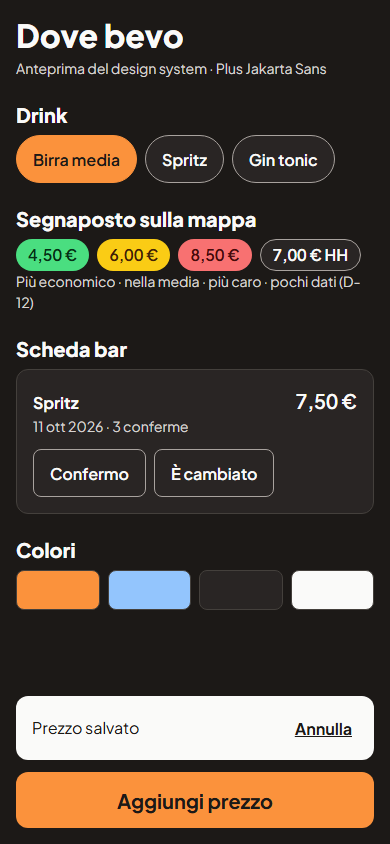
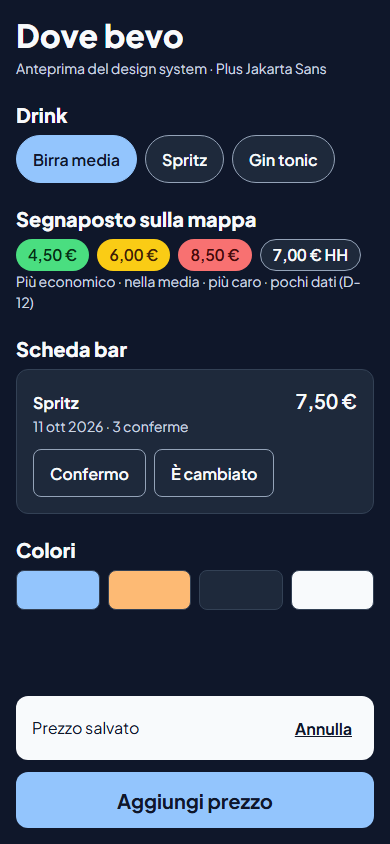
feat: M0-10 design system approved with palette C (blue and orange)

diff --git a/src/app/styles/tokens.css b/src/app/styles/tokens.css
@@ -10,15 +10,15 @@
 :root {
   color-scheme: light dark;
 
-  --color-bg: #fff7ed;
+  --color-bg: #f8fafc;
   --color-surface: #ffffff;
-  --color-text: #1c1917;
-  --color-text-muted: #57534e;
-  --color-primary: #c2410c;
+  --color-text: #0f172a;
+  --color-text-muted: #475569;
+  --color-primary: #1d4ed8;
   --color-on-primary: #ffffff;
-  --color-focus: #1d4ed8;
-  --color-border: #e7e5e4;
-  --color-border-strong: #78716c;
+  --color-focus: #c2410c;
+  --color-border: #e2e8f0;
+  --color-border-strong: #64748b;
   --color-error: #b91c1c;
 
   --price-cheap: #15803d;
@@ -28,7 +28,7 @@
   --price-high: #b91c1c;
   --on-price-high: #ffffff;
   --price-neutral: #ffffff;
-  --on-price-neutral: #1c1917;
+  --on-price-neutral: #0f172a;
 
   --font-sans: "Plus Jakarta Sans", system-ui, sans-serif;
   --text-sm: 0.875rem;
@@ -59,15 +59,15 @@
 
 @media (prefers-color-scheme: dark) {
   :root {
-    --color-bg: #1c1917;
-    --color-surface: #292524;
-    --color-text: #fafaf9;
-    --color-text-muted: #d6d3d1;
-    --color-primary: #fb923c;
-    --color-on-primary: #1c1917;
-    --color-focus: #93c5fd;
-    --color-border: #44403c;
-    --color-border-strong: #a8a29e;
+    --color-bg: #0f172a;
+    --color-surface: #1e293b;
+    --color-text: #f8fafc;
+    --color-text-muted: #cbd5e1;
+    --color-primary: #93c5fd;
+    --color-on-primary: #0f172a;
+    --color-focus: #fdba74;
+    --color-border: #334155;
+    --color-border-strong: #94a3b8;
     --color-error: #fca5a5;
 
     --price-cheap: #4ade80;
@@ -76,8 +76,8 @@
     --on-price-avg: #422006;
     --price-high: #f87171;
     --on-price-high: #450a0a;
-    --price-neutral: #292524;
-    --on-price-neutral: #fafaf9;
+    --price-neutral: #1e293b;
+    --on-price-neutral: #f8fafc;
     --shadow-sheet: 0 -2px 16px rgb(0 0 0 / 0.5);
   }
 }

diff --git a/design-system/MASTER.md b/design-system/MASTER.md
@@ -1,14 +1,14 @@
 # Dove bevo — Design system (MASTER)
 
-> Vale ovunque; il file di pagina in `pages/` prevale. Token implementati in `src/app/styles/tokens.css`. Stato: **proposta, da approvare da Roberto (M0-10)**.
+> Vale ovunque; il file di pagina in `pages/` prevale. Token implementati in `src/app/styles/tokens.css`. Stato: **approvato da Roberto l'11/10/2026 con la palette C "Blu e arancio"** (M0-10).
 
 ## Fonte e scelte
 Generato con UI UX Pro Max 2.13 (SPEC 15.1). La query di SPEC (in italiano) e una riformulazione in inglese ("nightlife bar drink prices map mobile app") hanno restituito un risultato fuori tema (landing di documentazione, font accademici): **non** è stato salvato. Il catalogo non ha la categoria "nightlife"; la più vicina è **Food Delivery / On-Demand** (mobile, mappa, uso rapido, prezzi):
 - stile **Vibrant & Block-based**: blocchi netti, alto contrasto, energico, giovane;
-- palette **arancio caldo + blu fiducia** (`--domain color "food delivery restaurant warm"`);
+- palette di partenza **arancio caldo + blu fiducia** (`--domain color "food delivery restaurant warm"`); Roberto ha scelto fra tre varianti la **C: blu come colore principale, arancio per focus e dettagli** (verde e rosso esclusi come principali perché indicano i prezzi);
 - tipografia: la coppia suggerita (Playfair Display SC + Karla) è scartata perché richiederebbe più di 2 file woff2 (SPEC 15.1.4); si usa **Plus Jakarta Sans** variabile (`--domain typography`, "Friendly SaaS"/"Mobile"), un solo file.
 
-Correzioni per i vincoli (prevalgono su skill): arancio e testo scuriti finché ogni coppia testo/sfondo ≥ 4,5:1 nei due temi (calcolo in PROGRESS); motion al minimo (dial 3/10) e nessuna libreria di animazione; niente hero né landing: l'app apre direttamente sulla mappa.
+Correzioni per i vincoli (prevalgono su skill): colori scuriti finché ogni coppia testo/sfondo ≥ 4,5:1 nei due temi (calcolo in PROGRESS); motion al minimo (dial 3/10) e nessuna libreria di animazione; niente hero né landing: l'app apre direttamente sulla mappa.
 
 ## Principi (SPEC 15)
 Una schermata, un'azione primaria. Uso con una mano, al bancone, con poca luce: comandi principali nella metà bassa dello schermo, target ≥ 48×48 px, testo ≥ 16 px nei controlli. Il prezzo è il contenuto: sempre scritto in cifre, mai solo colore. Italiano semplice. Nessuna emoji come icona.
@@ -16,20 +16,20 @@ Una schermata, un'azione primaria. Uso con una mano, al bancone, con poca luce: 
 ## Colore (token semantici; nei componenti mai valori grezzi)
 | Token | Chiaro | Scuro | Uso |
 |---|---|---|---|
-| `--color-bg` | `#FFF7ED` | `#1C1917` | sfondo app |
-| `--color-surface` | `#FFFFFF` | `#292524` | fogli, schede, liste |
-| `--color-text` | `#1C1917` | `#FAFAF9` | testo |
-| `--color-text-muted` | `#57534E` | `#D6D3D1` | testo secondario, date |
-| `--color-primary` | `#C2410C` | `#FB923C` | azione primaria ("Aggiungi prezzo", "Salva") |
-| `--color-on-primary` | `#FFFFFF` | `#1C1917` | testo su primario |
-| `--color-focus` | `#1D4ED8` | `#93C5FD` | anello di focus, link |
-| `--color-border` | `#E7E5E4` | `#44403C` | separatori decorativi |
-| `--color-border-strong` | `#78716C` | `#A8A29E` | bordi di campi e controlli (≥ 3:1) |
+| `--color-bg` | `#F8FAFC` | `#0F172A` | sfondo app |
+| `--color-surface` | `#FFFFFF` | `#1E293B` | fogli, schede, liste |
+| `--color-text` | `#0F172A` | `#F8FAFC` | testo |
+| `--color-text-muted` | `#475569` | `#CBD5E1` | testo secondario, date |
+| `--color-primary` | `#1D4ED8` | `#93C5FD` | azione primaria ("Aggiungi prezzo", "Salva") |
+| `--color-on-primary` | `#FFFFFF` | `#0F172A` | testo su primario |
+| `--color-focus` | `#C2410C` | `#FDBA74` | anello di focus, dettagli |
+| `--color-border` | `#E2E8F0` | `#334155` | separatori decorativi |
+| `--color-border-strong` | `#64748B` | `#94A3B8` | bordi di campi e controlli (≥ 3:1) |
 | `--color-error` | `#B91C1C` | `#FCA5A5` | errori (sempre con testo) |
 | `--price-cheap` / `--on-price-cheap` | `#15803D` / `#FFFFFF` | `#4ADE80` / `#052E16` | più economico della mediana (D-12) |
 | `--price-avg` / `--on-price-avg` | `#A16207` / `#FFFFFF` | `#FACC15` / `#422006` | nella media |
 | `--price-high` / `--on-price-high` | `#B91C1C` / `#FFFFFF` | `#F87171` / `#450A0A` | più caro |
-| `--price-neutral` / `--on-price-neutral` | `#FFFFFF` / `#1C1917` | `#292524` / `#FAFAF9` | < 5 prezzi o bar senza prezzo (con bordo `--color-border-strong`) |
+| `--price-neutral` / `--on-price-neutral` | `#FFFFFF` / `#0F172A` | `#1E293B` / `#F8FAFC` | < 5 prezzi o bar senza prezzo (con bordo `--color-border-strong`) |
 
 Il tema segue `prefers-color-scheme`; nessun interruttore (niente onboarding/impostazioni in Fase 0). Il colore della mediana è sempre accompagnato dal valore e, nell'elenco accessibile, da un testo ("più economico", "nella media", "più caro").
 

diff --git a/docs/PROGRESS.md b/docs/PROGRESS.md
@@ -13,7 +13,7 @@ Una voce per sessione, la più recente in alto. Ogni voce: data, milestone, cosa
 - **ADR 0009**: `@lhci/cli` 0.15.1 nel lockfile fa fallire `npm audit --audit-level=high` (basic-ftp, extract-zip, nessuna correzione compatibile): eseguito con `npx` a versione esatta solo nel job Lighthouse, senza segreti, report su file. Soglie di SPEC 15 già attive; aggiunti `robots.txt` e `meta description` (SEO 0,91 → 1).
 - **M0-07** `.github/workflows/deploy-staging.yml`: dopo una CI verde da push su `main` (mai da PR o fork), build con `CLOUDFLARE_ENV=staging`, `wrangler deploy`, smoke test (`/api/health`, shell, CSP, HSTS). `DATA_VERSION` di staging = `none` finché non c'è l'import OSM (M1-03): M0-07 passa del tutto solo dopo M1-03.
 - **M0-11 / ADR 0010**: la documentazione non dice se il binding Rate Limiting è nel piano Free. Binding `RATE_LIMITER` dichiarato in locale e staging; l'esito lo decide il primo deploy di staging.
-- **M0-10** `design-system/MASTER.md` + `pages/` (mappa, scheda bar, aggiungi prezzo, revisione listino, ricerca), `src/app/styles/tokens.css` e `base.css`, font Plus Jakarta Sans variabile (1 woff2, 27 KB, OFL) in `public/fonts/`. La query di SPEC dava un risultato fuori tema (FAQ, font accademici), non salvato; usata la categoria più vicina (Food Delivery / On-Demand). Anteprime `design-system/preview-light.png` e `preview-dark.png` a 390×844. **In attesa dell'approvazione di Roberto.**
+- **M0-10** `design-system/MASTER.md` + `pages/` (mappa, scheda bar, aggiungi prezzo, revisione listino, ricerca), `src/app/styles/tokens.css` e `base.css`, font Plus Jakarta Sans variabile (1 woff2, 27 KB, OFL) in `public/fonts/`. La query di SPEC dava un risultato fuori tema (FAQ, font accademici), non salvato; usata la categoria più vicina (Food Delivery / On-Demand). Anteprime `design-system/preview-light.png` e `preview-dark.png` a 390×844. Roberto ha chiesto un'altra palette: tre varianti AA a confronto (A notte e ambra, B viola, C blu e arancio); **approvato con la palette C** l'11/10/2026, token e MASTER aggiornati, anteprime rigenerate.
 
 **Prove**
 - CI sulla PR #2 (`m0-tooling` → `main`): 5 job su 5 verdi al primo giro.
@@ -22,7 +22,7 @@ Una voce per sessione, la più recente in alto. Ogni voce: data, milestone, cosa
 - Contrasti dei token (script WCAG): tutte le coppie testo/sfondo ≥ 4,5:1 in chiaro e scuro (minimo 4,80 per i bordi dei controlli in chiaro; pill "nella media" 4,92).
 - Locale: lint, typecheck, unit 9, e2e 12 + sicurezza 5, Lighthouse (Performance, Accessibility, Best Practices, SEO = 1; LCP 1,1 s; CLS 0), `format:check`, `npm audit` 0.
 
-**Aperte in M0**: M0-04 (mappa), M0-07 e M0-11 (primo deploy dopo il merge), M0-08 (Dependabot si attiva dopo il merge su `main`), M0-10 (approvazione).
+**Aperte in M0**: M0-04 (mappa), M0-07 e M0-11 (primo deploy dopo il merge), M0-08 (Dependabot si attiva dopo il merge su `main`), M0-10 approvato.
 
 ---
 
